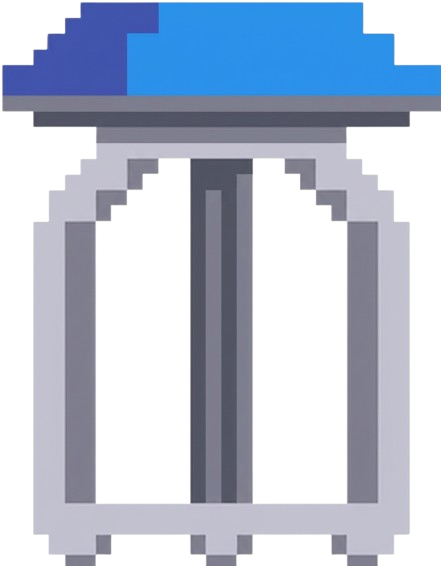
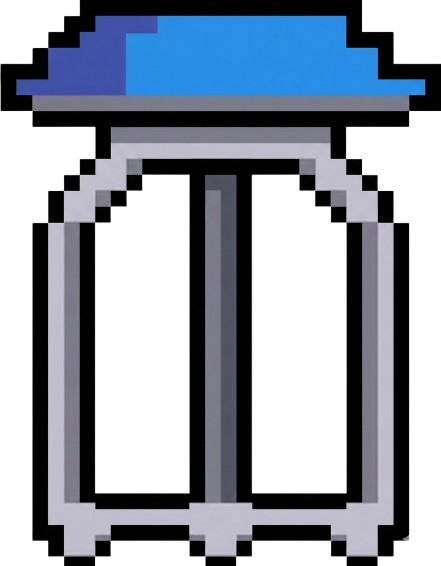
chair

Changed region(s): [[0.0, 0.0, 1.0, 1.0]]

diff --git a/skusobnatrieda.html b/skusobnatrieda.html
@@ -17,7 +17,7 @@
     <img class="chair" src="Images/chair.png">
     <img class="chair" src="Images/chair.png">
 
-    <img id="chairBoost" src="Images/chair.png">
+    <img id="chairBoost" src="Images/chairBoost.png">
 
     <img id="door" src="Images/door.png">
 </div>
